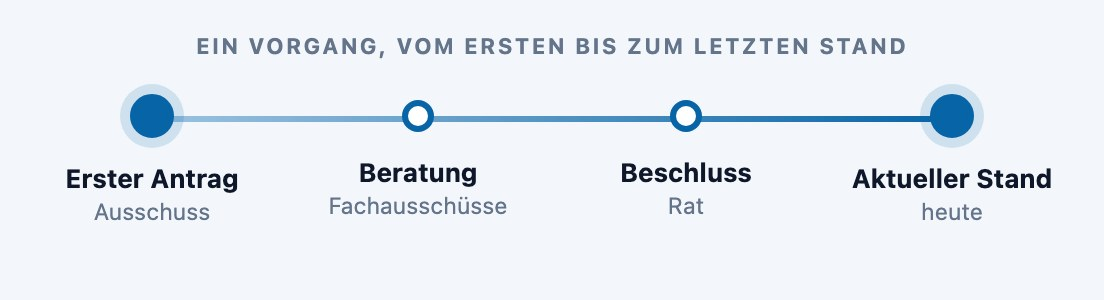
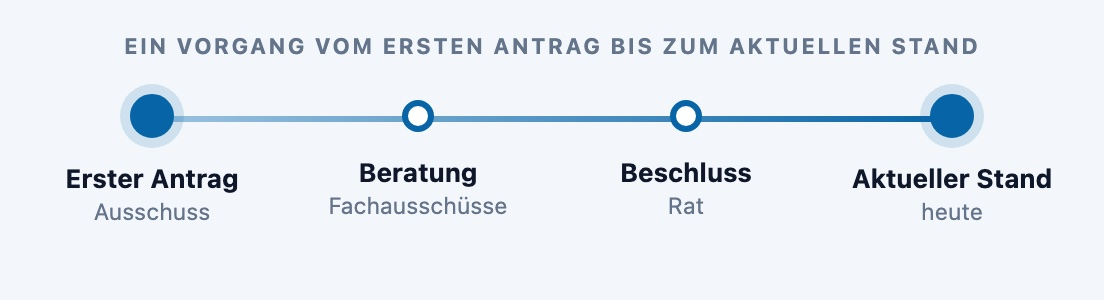
3.0-Mail mit Tims Text: Überschrift, Highlights, Zeitleiste, Knopf, Gruß und Fußzeile

Changed region(s): [[0.0924, 0.12, 0.8931, 0.18]]

diff --git a/kern/releases.py b/kern/releases.py
@@ -253,10 +253,10 @@ RELEASES: tuple[Release, ...] = (
                 # „Markieren“ nur als Zusatz für den Browser: Die App kennt
                 # keine Textauswahl (ios/…/AssistantSheet.swift, „Was in v1
                 # fehlt“) — der Satz muss auf beiden Geräten stimmen.
-                text="Tipp auf Lotti unten rechts und frag, was du zur Seite wissen "
-                     "willst; im Browser erklärt sie auch ein markiertes Wort. Für "
-                     "die Antwort schlägt sie selbst in Sitzungen und Beschlüssen "
-                     "nach.",
+                text="Tipp unten rechts auf Lotti und frag sie, was du über die Seite "
+                     "wissen möchtest. Im Browser kannst du auch ein Wort markieren und "
+                     "dir erklären lassen. Lotti sucht die Antwort in Sitzungen und "
+                     "Beschlüssen.",
                 # Bis 11/2026 der Beschluss aus dem Clip (``?id=21966``). Die
                 # Nummer ist aber eine Zeilennummer, und die ist je Umgebung
                 # eine andere: Auf dev heißt derselbe Beschluss 9491, der
@@ -265,7 +265,7 @@ RELEASES: tuple[Release, ...] = (
                 # das Fenster — überall, ohne Daten vorauszusetzen.
                 url="/dashboard?lotti=1",
                 tagline="Tipp auf die Möwe — sie schlägt selbst nach.",
-                action="Lotti-Chat ausprobieren",
+                action="Mit Lotti chatten",
                 # Signal-Orange ist die Farbe der KI (Funken, Tipp-Anzeige):
                 # Was Lotti tut, trägt sie.
                 color="signal",
@@ -307,9 +307,9 @@ RELEASES: tuple[Release, ...] = (
             Highlight(
                 mail_image="/neuigkeiten/3.0.0/viertel-szene.jpg",
                 title="Mein Viertel",
-                text="Wähl dein Viertel und sieh, was der Rat dort beschlossen hat: "
-                     "jedes Vorhaben von der Idee bis zum Bau, mit Bebauungsplänen "
-                     "und den Beschlüssen dazu.",
+                text="Wähle dein Viertel aus und sieh, was der Rat dort beschlossen hat. "
+                     "Zu jedem Vorhaben findest du den Weg von der ersten Idee bis zum "
+                     "Bau, dazu die Bebauungspläne und Beschlüsse.",
                 url="/karte",
                 tagline="Was sich vor deiner Haustür tut.",
                 action="Mein Viertel ausprobieren",
@@ -349,10 +349,11 @@ RELEASES: tuple[Release, ...] = (
             Highlight(
                 mail_image="/neuigkeiten/3.0.0/ideen-szene.jpg",
                 title="Ideen aus anderen Städten",
-                text="Was haben Hannover, Münster oder Potsdam schon beantragt oder "
-                     "beschlossen, das Oldenburg noch fehlt? Je Idee siehst du, wie "
-                     "sie durch die Räte lief und, mit Belegen, was es in "
-                     "Oldenburg dazu schon gibt.",
+                text="Was wurde in Hannover, Münster oder Potsdam beantragt oder "
+                     "beschlossen, das in Oldenburg noch fehlt? Du kannst nachlesen, wie "
+                     "die Räte darüber beraten haben. Ratslotse zeigt dir auch, welche "
+                     "ähnlichen Vorhaben es in Oldenburg schon gibt. Die Informationen "
+                     "sind mit Belegen versehen.",
                 url="/council/ideen",
                 tagline="Was andere Räte schon beschlossen haben.",
                 action="Ideen entdecken",
@@ -392,9 +393,9 @@ RELEASES: tuple[Release, ...] = (
                 # Umformuliert 08.11.2026 (Tim: „liest den ganzen Vorgang" war
                 # komisch) — gemeint ist, dass Vorgänge vollständig erfasst
                 # werden, vom ersten bis zum aktuellen Stand.
-                title="Frag den Rat erfasst Vorgänge vollständig",
-                text="Fragst du nach einem Vorhaben, siehst du den ersten und den aktuellen "
-                     "Stand und alles dazwischen, als Zeitleiste mit den Eckdaten.",
+                title="Frag den Rat zeigt jetzt den ganzen Verlauf",
+                text="Du siehst den ersten Antrag, die Beratungen, den Beschluss und den "
+                     "aktuellen Stand. Ratslotse zeigt alles in einer Zeitleiste.",
                 url="/fragen",
                 tagline="Zeitleiste und Eckdaten unter jeder Antwort.",
                 action="Frag den Rat ausprobieren",

diff --git a/kern/news.py b/kern/news.py
@@ -125,13 +125,15 @@ def body_html(release: Release) -> str:
         # und in der Mail läuft keins. Und keine App: Die neue ist noch nicht
         # im Store, die Videos zeigt die Karte beim nächsten Besuch.
         f"<p style='margin:0 0 22px;font-size:15px;line-height:1.55;color:{_TEXT}'>"
-        f"in Ratslotse gibt es {zahl} neue Wege, den Rat zu verstehen. "
-        "Wenn du dich das nächste Mal anmeldest, zeigt dir zu jedem ein kurzes Video, "
-        "wie es geht.</p>",
+        f"bei Ratslotse gibt es {zahl} neue Möglichkeiten, die Arbeit des Rates "
+        "nachzuvollziehen. Wenn du dich das nächste Mal anmeldest, findest du zu jeder "
+        "Neuerung ein kurzes Video.</p>",
         f"<div style='font-size:12px;font-weight:700;letter-spacing:0.12em;color:{_SIGNAL}'>"
         f"NEU IN VERSION {html.escape(_version_kurz(release.version))}</div>",
+        # Nicht der Name der Karte („Das Erklär-Update“): In der Mail sagt die
+        # Überschrift, was drinsteht (Tims Text 08.11.2026).
         f"<div style='margin-top:6px;font-size:26px;font-weight:800;line-height:1.2;color:{_TEXT}'>"
-        f"{html.escape(release.title)}</div>",
+        f"{str(zahl).capitalize()} Neuerungen bei Ratslotse</div>",
     ]
     teile += [_highlight_block(h, i) for i, h in enumerate(gross, start=1)]
     # Das kleine Feature unter „Außerdem neu": Titel, Satz und — wenn es eins
@@ -159,11 +161,11 @@ def body_html(release: Release) -> str:
             + "".join(zeilen)
             + "</div>"
         )
-    teile.append(digest_email.knopf(TAP_ZIEL, "Jetzt in Ratslotse ansehen"))
+    teile.append(digest_email.knopf(TAP_ZIEL, "Jetzt Ratslotse öffnen"))
     teile.append(
         f"<p style='margin:22px 0 0;font-size:15px;line-height:1.55;color:{_TEXT}'>"
-        "Viel Spaß beim Entdecken! Fällt dir etwas auf, freue ich mich über eine Nachricht "
-        "über „Feedback“ in Ratslotse.<br>Lotti</p>"
+        "Viel Spaß beim Ausprobieren! Wenn dir etwas auffällt, schreib mir gern über die "
+        "Feedbackfunktion in Ratslotse.<br>Lotti</p>"
     )
     teile.append(
         digest_email.nebenlink(

diff --git a/kern/digest_email.py b/kern/digest_email.py
@@ -358,7 +358,8 @@ def _abmelde_hinweis() -> str:
     Selbst-Suchen (Tims Wunsch 26.08.2026)."""
     return (
         f"<div style='margin-top:10px;color:{_LEISE};font-size:12px;line-height:1.5'>"
-        "Du bekommst diese E-Mail, weil du bei Ratslotse die E-Mail-Zustellung aktiviert hast. "
-        f"Den Kanal änderst du jederzeit unter <a href='{APP_BASE_URL}/account?zeig=zustellung' "
-        f"style='color:{_LEISE};text-decoration:underline'>„Mein Konto“</a>.</div>"
+        "Du erhältst diese Mail, weil du bei Ratslotse den Mailversand aktiviert hast. "
+        f"Unter <a href='{APP_BASE_URL}/account?zeig=zustellung' "
+        f"style='color:{_LEISE};text-decoration:underline'>„Mein Konto“</a> "
+        "kannst du das jederzeit ändern.</div>"
     )
